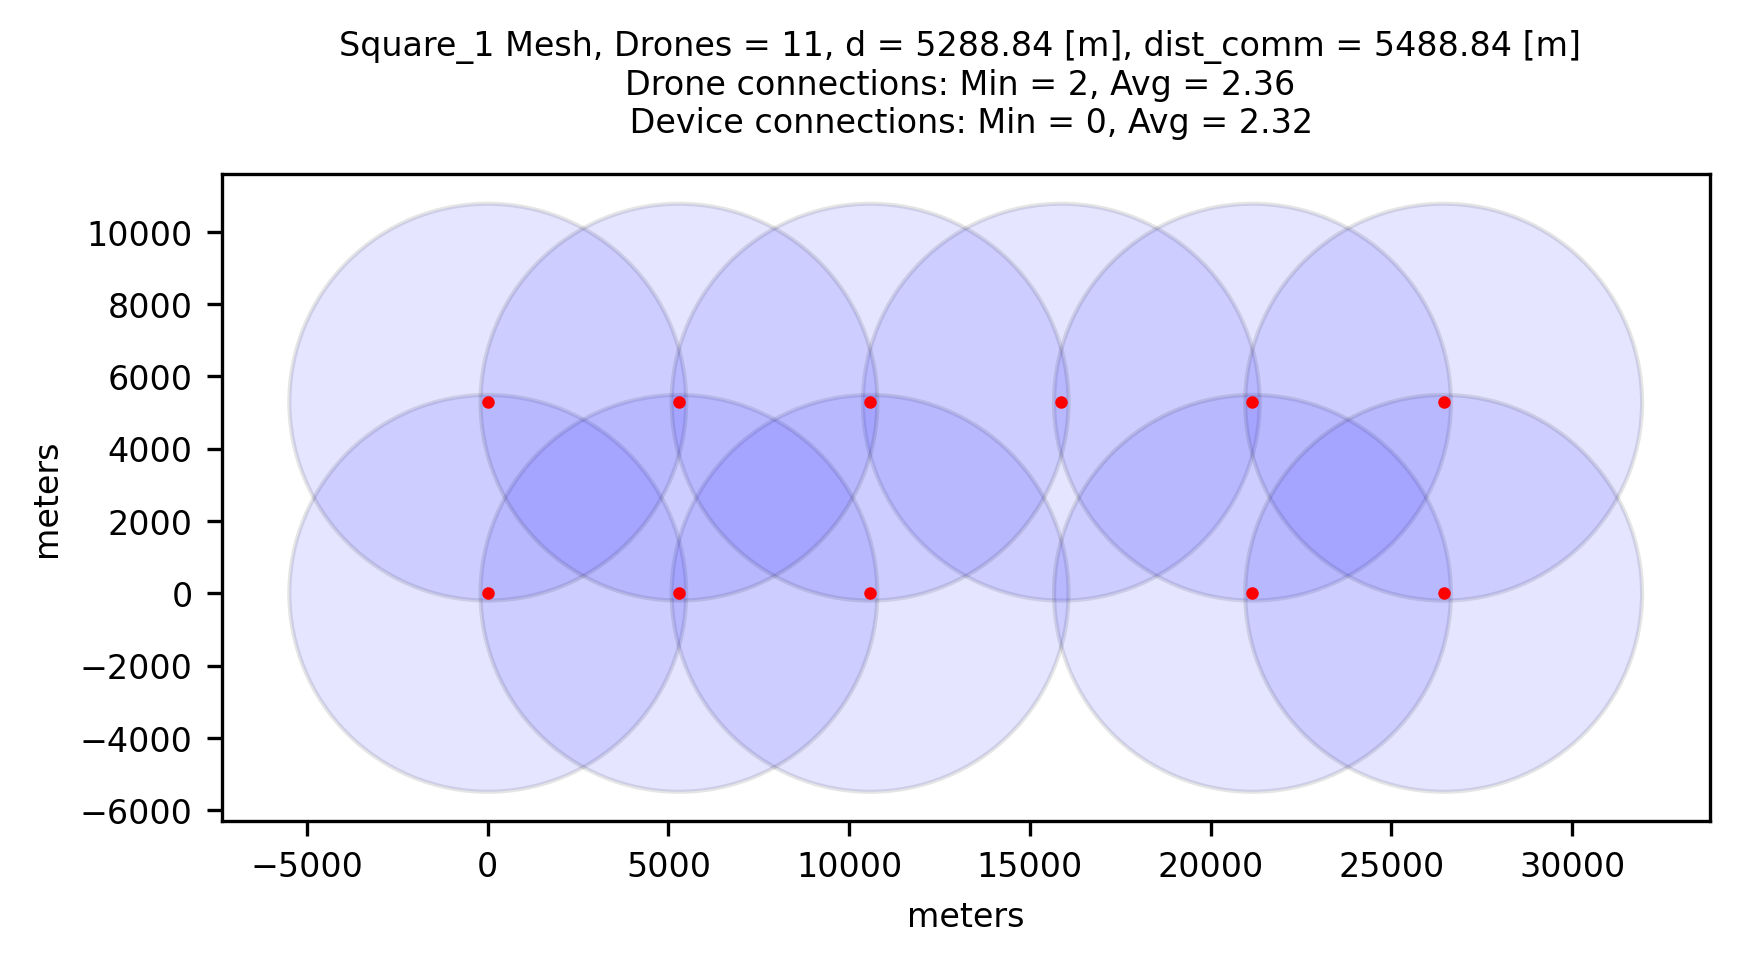
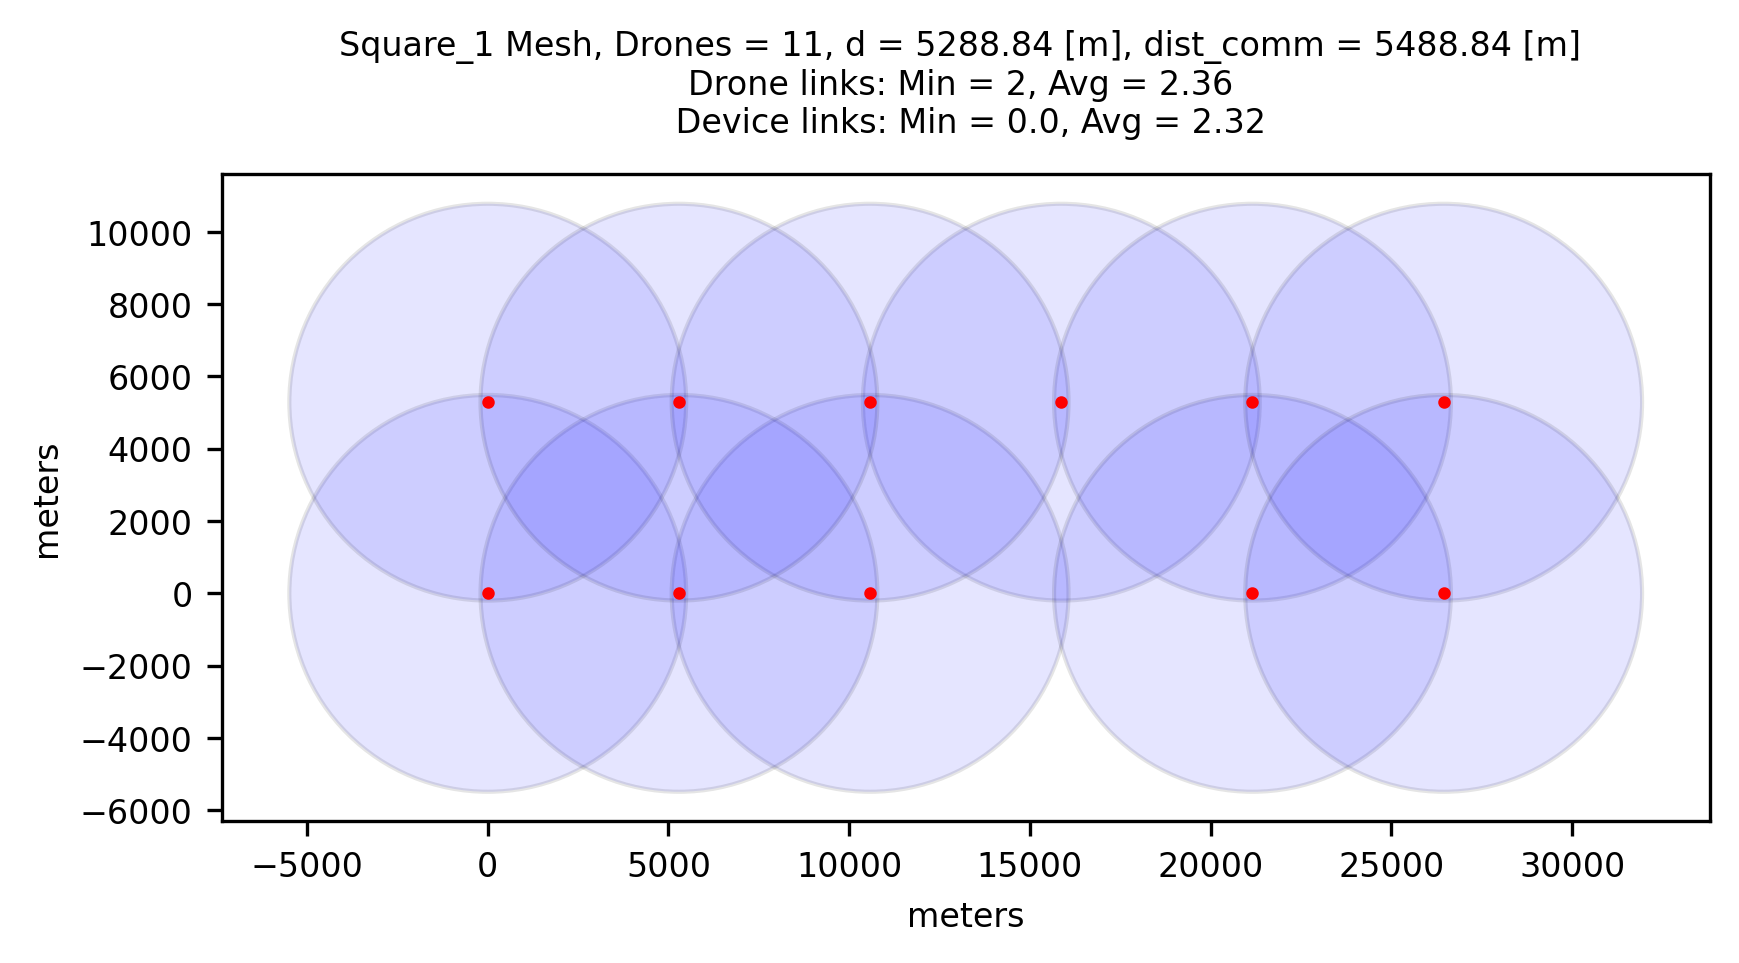
cleaned up old plot_drone_positions function

Changed region(s): [[0.3416, 0.0623, 0.7453, 0.1558]]

diff --git a/mesh_design.py b/mesh_design.py
@@ -335,11 +335,15 @@ lookup_table_halow_module_MM8108 = {
     }
 }
 
-def get_halow_module_MM8108_params(desired_bandwidth_Mhz, desired_rate_Mbps):
+def get_halow_module_MM8108_params(*,
+                                   meta_prefix: str ="",
+                                   desired_bandwidth_Mhz, 
+                                   desired_rate_Mbps):
     # Find closest available bandwidth
     available_bandwidth = np.array(list(lookup_table_halow_module_MM8108.keys()))
     bandwidth_index = np.argmin(np.abs(available_bandwidth - desired_bandwidth_Mhz))
     closest_bandwidth = int(available_bandwidth[bandwidth_index])
+    metadata[f"{meta_prefix}BANDWIDTH"] = closest_bandwidth
 
     # Get all MCS schemes for that bandwidth
     schemes = lookup_table_halow_module_MM8108[closest_bandwidth].values()
@@ -350,18 +354,17 @@ def get_halow_module_MM8108_params(desired_bandwidth_Mhz, desired_rate_Mbps):
     # Find first sorted_scheme >= desired datarate
     for best_scheme in sorted_schemes:
         if best_scheme['data_rate'] >= desired_rate_Mbps:
-            best_data_rate = best_scheme['data_rate']
-            best_rx_sens = best_scheme['receive_sensitivity']
-            best_tx_power = best_scheme['transmit_power']
+            metadata[f"{meta_prefix}DATA_RATE"] = best_scheme['data_rate']
+            metadata[f"{meta_prefix}RECEIVED_SENSITIVITY"] = best_scheme['receive_sensitivity']
+            metadata[f"{meta_prefix}TRANSMIT_POWER"] = best_scheme['transmit_power']
             break
         else:
             # If desired data rate above all availeble schemes return highest sorted_scheme
             best_scheme = sorted_schemes[0]
-            best_data_rate = best_scheme['data_rate']
-            best_rx_sens = best_scheme['receive_sensitivity']
-            best_tx_power = best_scheme['transmit_power']
-
-    return best_data_rate, best_rx_sens, best_tx_power, closest_bandwidth
+            metadata[f"{meta_prefix}DATA_RATE"] = best_scheme['data_rate']
+            metadata[f"{meta_prefix}RECEIVED_SENSITIVITY"] = best_scheme['receive_sensitivity']
+            metadata[f"{meta_prefix}TRANSMIT_POWER"] = best_scheme['transmit_power']
+    
 
 def dist_comm_calc(transmit_power_dbm: float = 16, 
                    received_power_dbm: float = -74,
@@ -393,7 +396,7 @@ def dist_comm_calc(transmit_power_dbm: float = 16,
 def dropout_drones(*,
                    meta_prefix: str = "",
                    drone_positions: np.ndarray,
-                   dropout_rate: float):
+                   dropout_rate: float) -> np.ndarray:
     """
     Docstring for dropout_drones
     
@@ -427,7 +430,133 @@ def dropout_drones(*,
 
     return drone_positions_result
 
-def plot_drone_positions(grid_name: str,
+def calculate_links(drone_positions: np.ndarray,
+                    dist_comm: float) -> np.ndarray:
+    """
+    Docstring for drone_links
+    
+    Inputs:
+    drone_positions: Nx2 Numpy array of drone positions in a given mesh
+    dist_comm: Communication distance of drone in meters
+
+    Returns:
+    num_links: Nx1 numpy array of links for each drone
+    """
+    num_links = []
+
+    for i, (x, y) in enumerate(drone_positions):
+        # Compute distances from drone i to all drones
+        distances = (drone_positions[:, 0] - x)**2 + (drone_positions[:, 1] - y)**2
+        
+        # Count how many are within dist_comm (exclude itself)
+        count = np.sum(distances <= (dist_comm+1)**2) - 1
+        num_links.append(count)
+        
+    return np.array(num_links)
+
+def calculate_device_links(*,
+                           meta_prefix: str = "",
+                           grid_name: str,
+                           drone_positions: np.ndarray,
+                           dim: tuple[float, float],
+                           sample_resolution: tuple[float, float]) -> np.ndarray:
+    """
+    Docstring for calculate_device_links
+    
+    Inputs:
+    grid_name: Name of grid used for file and plot name
+    drone_positions: Nx2 Numpy array of drone positions in a given mesh
+    dim: Dimensions [x, y] of the area the drone mesh need to cover
+    sample_resolution: Sample resolution [x, y] ie. how many sample points inside the dimensions
+    
+    Returns: Dx1 numpy array of drone links for each device
+    """
+
+    x_dim, y_dim = dim
+    x_sample_res, y_sample_res = sample_resolution
+    # Device points in drone area
+    x_device_points = np.linspace(0, x_dim, x_sample_res)
+    y_device_points = np.linspace(0, y_dim, y_sample_res)
+
+    valid_links_counts = []
+
+    for x_new in tqdm(x_device_points, desc=f"Computing distances for {grid_name} mesh"):
+        for y_new in y_device_points:
+            # Compute distances from device i to all drones
+            distances = (drone_positions[:, 0] - x_new)**2 + (drone_positions[:, 1] - y_new)**2
+
+            # Add links to valid connection count
+            links = np.sum(distances <= dist_comm**2)
+
+            valid_links_counts.append(links)
+    
+    valid_links = np.array(valid_links_counts)
+
+    # Saving min and mean in dict for drone plot
+    metadata[f"{meta_prefix}MIN_DEVICE_LINKS"] = float(np.min(valid_links))
+    metadata[f"{meta_prefix}MEAN_DEVICE_LINKS"] = float(np.mean(valid_links))
+
+
+def plot_drone_positions(*,
+                         meta_prefix: str = "", 
+                         grid_name: str,
+                         drone_positions: np.ndarray,
+                         distance: float,
+                         dist_comm: float,
+                         drone_links: np.ndarray,
+                         file_path_folder: str,
+                         font_size: float = 8.0):
+    
+    fig, ax_drone_pos = plt.subplots()
+    
+    # Plot drone positions as dots
+    x_pos = drone_positions[:, 0]
+    y_pos = drone_positions[:, 1]
+    ax_drone_pos.plot(x_pos, y_pos, 'o', color = 'red', markersize=2)
+
+
+    for i, (x, y) in enumerate(drone_positions):
+        # Draw communcation dist_comm as circle
+        circle = plt.Circle((x, y), dist_comm, fill=True, facecolor='blue', edgecolor='black', alpha=0.1)
+        ax_drone_pos.add_patch(circle)
+
+    device_links_min = metadata[f"{meta_prefix}MIN_DEVICE_LINKS"]
+    device_links_mean = metadata[f"{meta_prefix}MEAN_DEVICE_LINKS"]
+
+    title_text = (
+    f"{grid_name} Mesh, Drones = {len(drone_positions)}, d = {distance:.2f} [m], dist_comm = {dist_comm:.2f} [m] \n"
+    f"Drone links: Min = {np.min(drone_links)}, Avg = {np.mean(drone_links):.2f} \n "
+    f"Device links: Min = {device_links_min}, Avg = {device_links_mean:.2f}"
+)
+    ax_drone_pos.set_title(title_text, fontsize=font_size, pad=10)  # pad adds space above plot
+    ax_drone_pos.set_xlabel("meters", fontsize=font_size)
+    ax_drone_pos.set_ylabel("meters", fontsize=font_size)
+    ax_drone_pos.set_aspect('equal', 'box')
+    ax_drone_pos.tick_params(axis='both', labelsize=font_size)
+
+    file_path = os.path.join(file_path_folder, f"{grid_name}.png")
+    fig.savefig(file_path, dpi=300, bbox_inches='tight')
+    
+    plt.close(fig)
+
+def plot_histogram_drone_links(grid_name: str,
+                               drone_links: np.ndarray,
+                               file_path_folder: str,
+                               font_size: float = 8.0):
+
+    # Build histogram of # drones and # links
+    fig_hist, ax_hist = plt.subplots()
+    connections_hist = Counter(drone_links)
+    ax_hist.set_title("Histogram over links")
+    ax_hist.set_xlabel("Connections", fontsize=font_size)
+    ax_hist.set_ylabel("Drones", fontsize=font_size)
+    ax_hist.bar(connections_hist.keys(), connections_hist.values(), width=0.2)
+
+    file_path_hist = os.path.join(file_path_folder, f"{grid_name}_connection_hist.png")
+    fig_hist.savefig(file_path_hist, dpi=300, bbox_inches='tight')
+    plt.close(fig_hist)
+
+def main(grid_name: str,
                          all_drone_positions: np.ndarray, 
                          distance: float,
                          dist_comm: float,
@@ -435,12 +564,25 @@ def plot_drone_positions(grid_name: str,
                          sample_resolution: tuple[int, int],
                          file_path_folder: str,
                          dropout_rate: float):
-    x_dim, y_dim = dim
-    x_sample_res, y_sample_res = sample_resolution
-    font_size = 8
+    """
+    Docstring for main
+    
+    Inputs:
+    grid_name: Name of grid used for file and plot name
+    all_drone_positions: Nx2 Numpy array of all drone positions in a given mesh
+    distance: Distance between drones in meters
+    dist_comm: Communication distance of drone in meters
+    dim: Dimensions [x, y] of the area the drone mesh need to cover
+    sample_resolution: Sample resolution [x, y] ie. how many sample points inside the dimensions
+    file_path_folder: File path to folder where plots will be saved
+    dropout_rate: Percetage of drones which are removed (0..1)
 
-    fig, ax = plt.subplots()
+    This function takes a given drone mesh and 
+    - plots the mesh of drones of all drones and one example of drones with dropout
+    - plots histogram of number drones against links to other drones
 
+    """
+    
     drone_positions = dropout_drones(drone_positions=all_drone_positions, dropout_rate=dropout_rate)
     # Pseudo
     # links: list[Link]
@@ -453,84 +595,29 @@ def plot_drone_positions(grid_name: str,
     # full_links, _ = calculate_links(all_drones)    # full links is no dropout (to linux net)
     # write_network_graph(drones, full_links)
 
-    # Plot drone positions as dots
-    x_pos = drone_positions[:, 0]
-    y_pos = drone_positions[:, 1]
-    ax.plot(x_pos, y_pos, 'o', color = 'red', markersize=2)
-
-    counts_inside = []
-
-    for i, (x, y) in enumerate(drone_positions):
-        # Compute distances from drone i to all drones
-        distances = (drone_positions[:, 0] - x)**2 + (drone_positions[:, 1] - y)**2
-        
-        # Count how many are within dist_comm (exclude itself)
-        count = np.sum(distances <= (dist_comm+1)**2) - 1
-        counts_inside.append(count)
-
-        # Draw communcation dist_comm as circle
-        circle = plt.Circle((x, y), dist_comm, fill=True, facecolor='blue', edgecolor='black', alpha=0.1)
-        ax.add_patch(circle)
-
-    counts_inside = np.array(counts_inside)
-
-    min_drones_inside = np.min(counts_inside)
-    avg_drones_inside = np.mean(counts_inside)
-
-    # Device points in drone area
-    x_device_points = np.linspace(0, x_dim, x_sample_res)
-    y_device_points = np.linspace(0, y_dim, y_sample_res)
-
-    valid_connection_counts = []
-
-    for x_new in tqdm(x_device_points, desc=f"Computing distances for {grid_name} mesh"):
-        for y_new in y_device_points:
-            # Compute distances from device i to all drones
-            distances = (drone_positions[:, 0] - x_new)**2 + (drone_positions[:, 1] - y_new)**2
-
-            # Add connections to valid connection count
-            connections = np.sum(distances <= dist_comm**2)
-
-            valid_connection_counts.append(connections)
-
-    valid_connection_counts = np.array(valid_connection_counts)
-
-    min_device_connections = np.min(valid_connection_counts)
-    avg_device_connections = np.mean(valid_connection_counts)
 
 
+    # Calculating drone links
+    drone_links = calculate_links(drone_positions=drone_positions, dist_comm=dist_comm)
 
+    # Calculating links from devices to drones
+    calculate_device_links(meta_prefix=grid_name, grid_name=grid_name, drone_positions=drone_positions, dim=dim, sample_resolution=sample_resolution)
 
-    # Building drone plot figure
-    title_text = (
-    f"{grid_name} Mesh, Drones = {len(drone_positions)}, d = {distance:.2f} [m], dist_comm = {dist_comm:.2f} [m] \n"
-    f"Drone connections: Min = {min_drones_inside}, Avg = {avg_drones_inside:.2f} \n "
-    f"Device connections: Min = {min_device_connections}, Avg = {avg_device_connections:.2f}"
-)
-    ax.set_title(title_text, fontsize=font_size, pad=10)  # pad adds space above plot
-    ax.set_xlabel("meters", fontsize=font_size)
-    ax.set_ylabel("meters", fontsize=font_size)
-    ax.set_aspect('equal', 'box')
-    ax.tick_params(axis='both', labelsize=font_size)
-
-    # Build histogram of # drones and # connections
-    fig_hist, ax_hist = plt.subplots()
-    connections_hist = Counter(counts_inside)
-    ax_hist.set_title("Histogram over connections")
-    ax_hist.set_xlabel("Connections", fontsize=font_size)
-    ax_hist.set_ylabel("Drones", fontsize=font_size)
-    ax_hist.bar(connections_hist.keys(), connections_hist.values(), width=0.2)
-
-
+    # Building drone plot figures    
     # save drone plot and hist fig to file path
     os.makedirs(file_path_folder, exist_ok=True)
-    file_path = os.path.join(file_path_folder, f"{grid_name}.png")
-    fig.savefig(file_path, dpi=300, bbox_inches='tight')
-    file_path_hist = os.path.join(file_path_folder, f"{grid_name}_connection_hist.png")
-    fig_hist.savefig(file_path_hist, dpi=300, bbox_inches='tight')
-    plt.close(fig_hist)
-    plt.close(fig)
-
+    
+    plot_drone_positions(meta_prefix=grid_name,
+                         grid_name=grid_name, 
+                         drone_positions=drone_positions, 
+                         distance=distance, 
+                         dist_comm=dist_comm, 
+                         drone_links=drone_links, 
+                         file_path_folder=file_path_folder)
+    
+    plot_histogram_drone_links(grid_name=grid_name,
+                               drone_links=drone_links,
+                               file_path_folder=file_path_folder)
 
 
 ################## test variables ###################################
@@ -550,16 +637,18 @@ desired_bandwidth_Mhz = 8
 desired_rate_Mbps = 20
 freq_Mhz = 868
 margin_loss_db = 3
+
 ###################################################################
 
-data_rate, received_power_dbm, transmit_power_dbm, bandwidth = get_halow_module_MM8108_params(desired_bandwidth_Mhz=desired_bandwidth_Mhz, desired_rate_Mbps=desired_rate_Mbps)
-print(f"{data_rate=},{received_power_dbm=}, {transmit_power_dbm=}, {bandwidth=}")
+# Calculate values for modelling wireless commmunication from wifi halow module
+# These values are the same for all grid types
+wireless_prefix = ""
+get_halow_module_MM8108_params(meta_prefix=wireless_prefix, desired_bandwidth_Mhz=desired_bandwidth_Mhz, desired_rate_Mbps=desired_rate_Mbps)
 
-dist_comm = dist_comm_calc(transmit_power_dbm=transmit_power_dbm, 
-                           received_power_dbm=received_power_dbm, 
+dist_comm = dist_comm_calc(transmit_power_dbm=metadata[f"{wireless_prefix}TRANSMIT_POWER"], 
+                           received_power_dbm=metadata[f"{wireless_prefix}RECEIVED_SENSITIVITY"], 
                            freq_Mhz=freq_Mhz,
                            margin_loss_db=margin_loss_db)
-print(f"{dist_comm=}")
 
 
 test_distance = distance_calc(dist_comm, test_tolerances, test_dist_redundancy)
@@ -567,7 +656,7 @@ test_distance = distance_calc(dist_comm, test_tolerances, test_dist_redundancy)
 
 for i in range(test_tolerances[2]):
     drone_pos_sq = drone_sq_grid(test_dim, test_distance[i])
-    plot_drone_positions(f"Square_{i}", 
+    main(f"Square_{i}", 
                         drone_pos_sq, 
                         distance=test_distance[i], 
                         dist_comm=dist_comm, 
